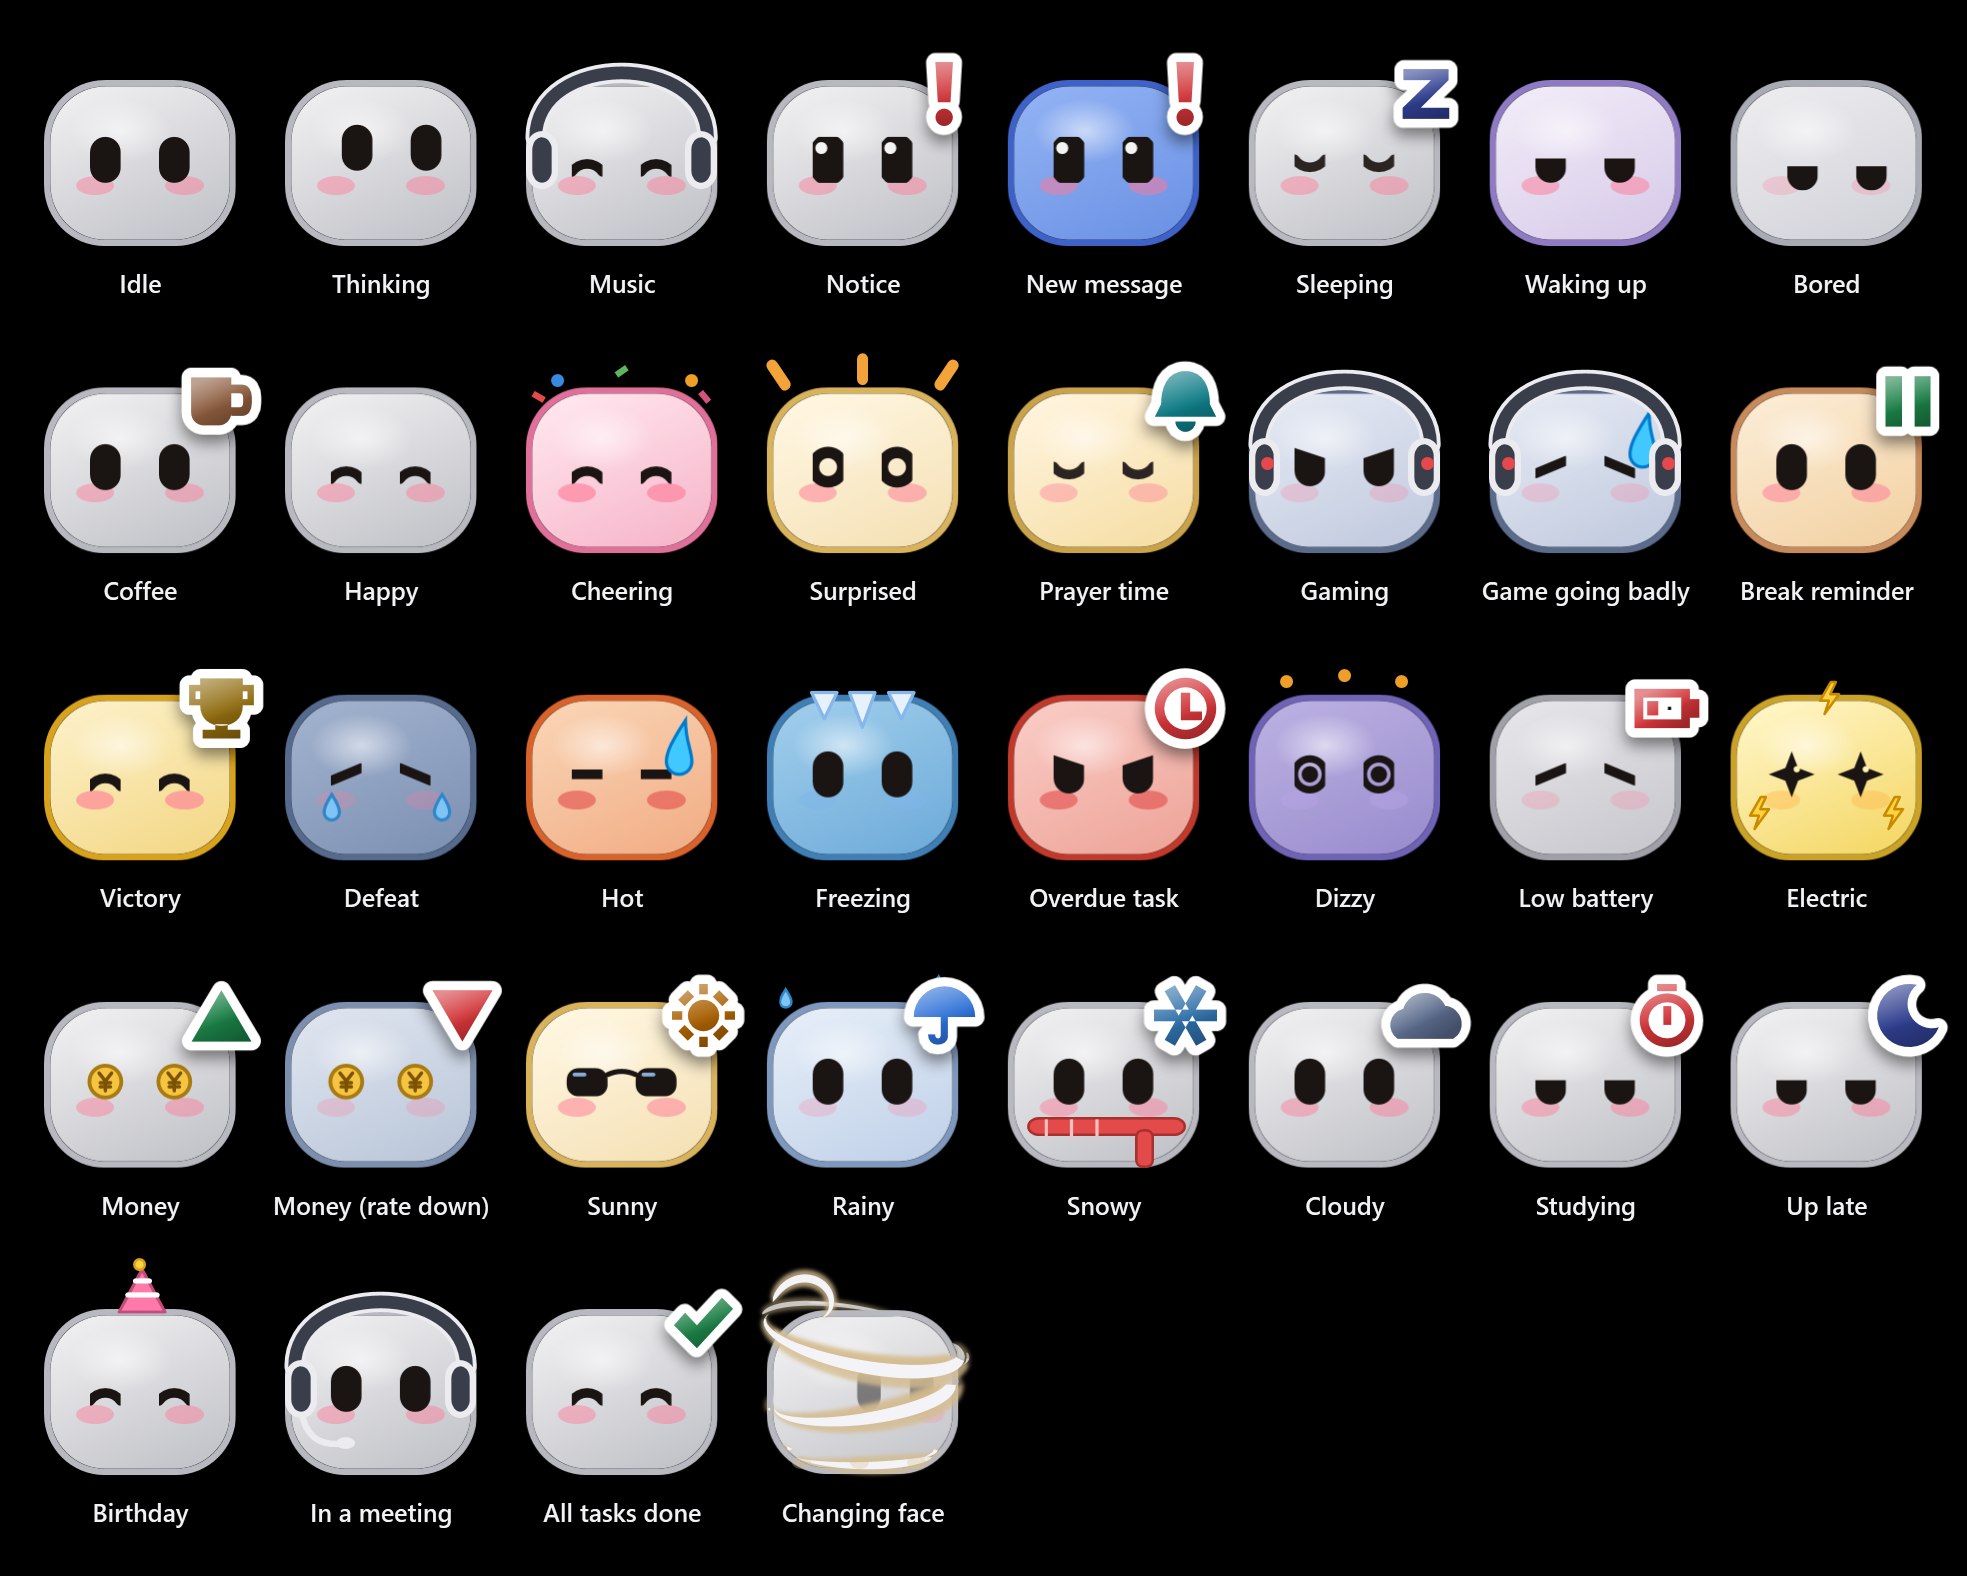
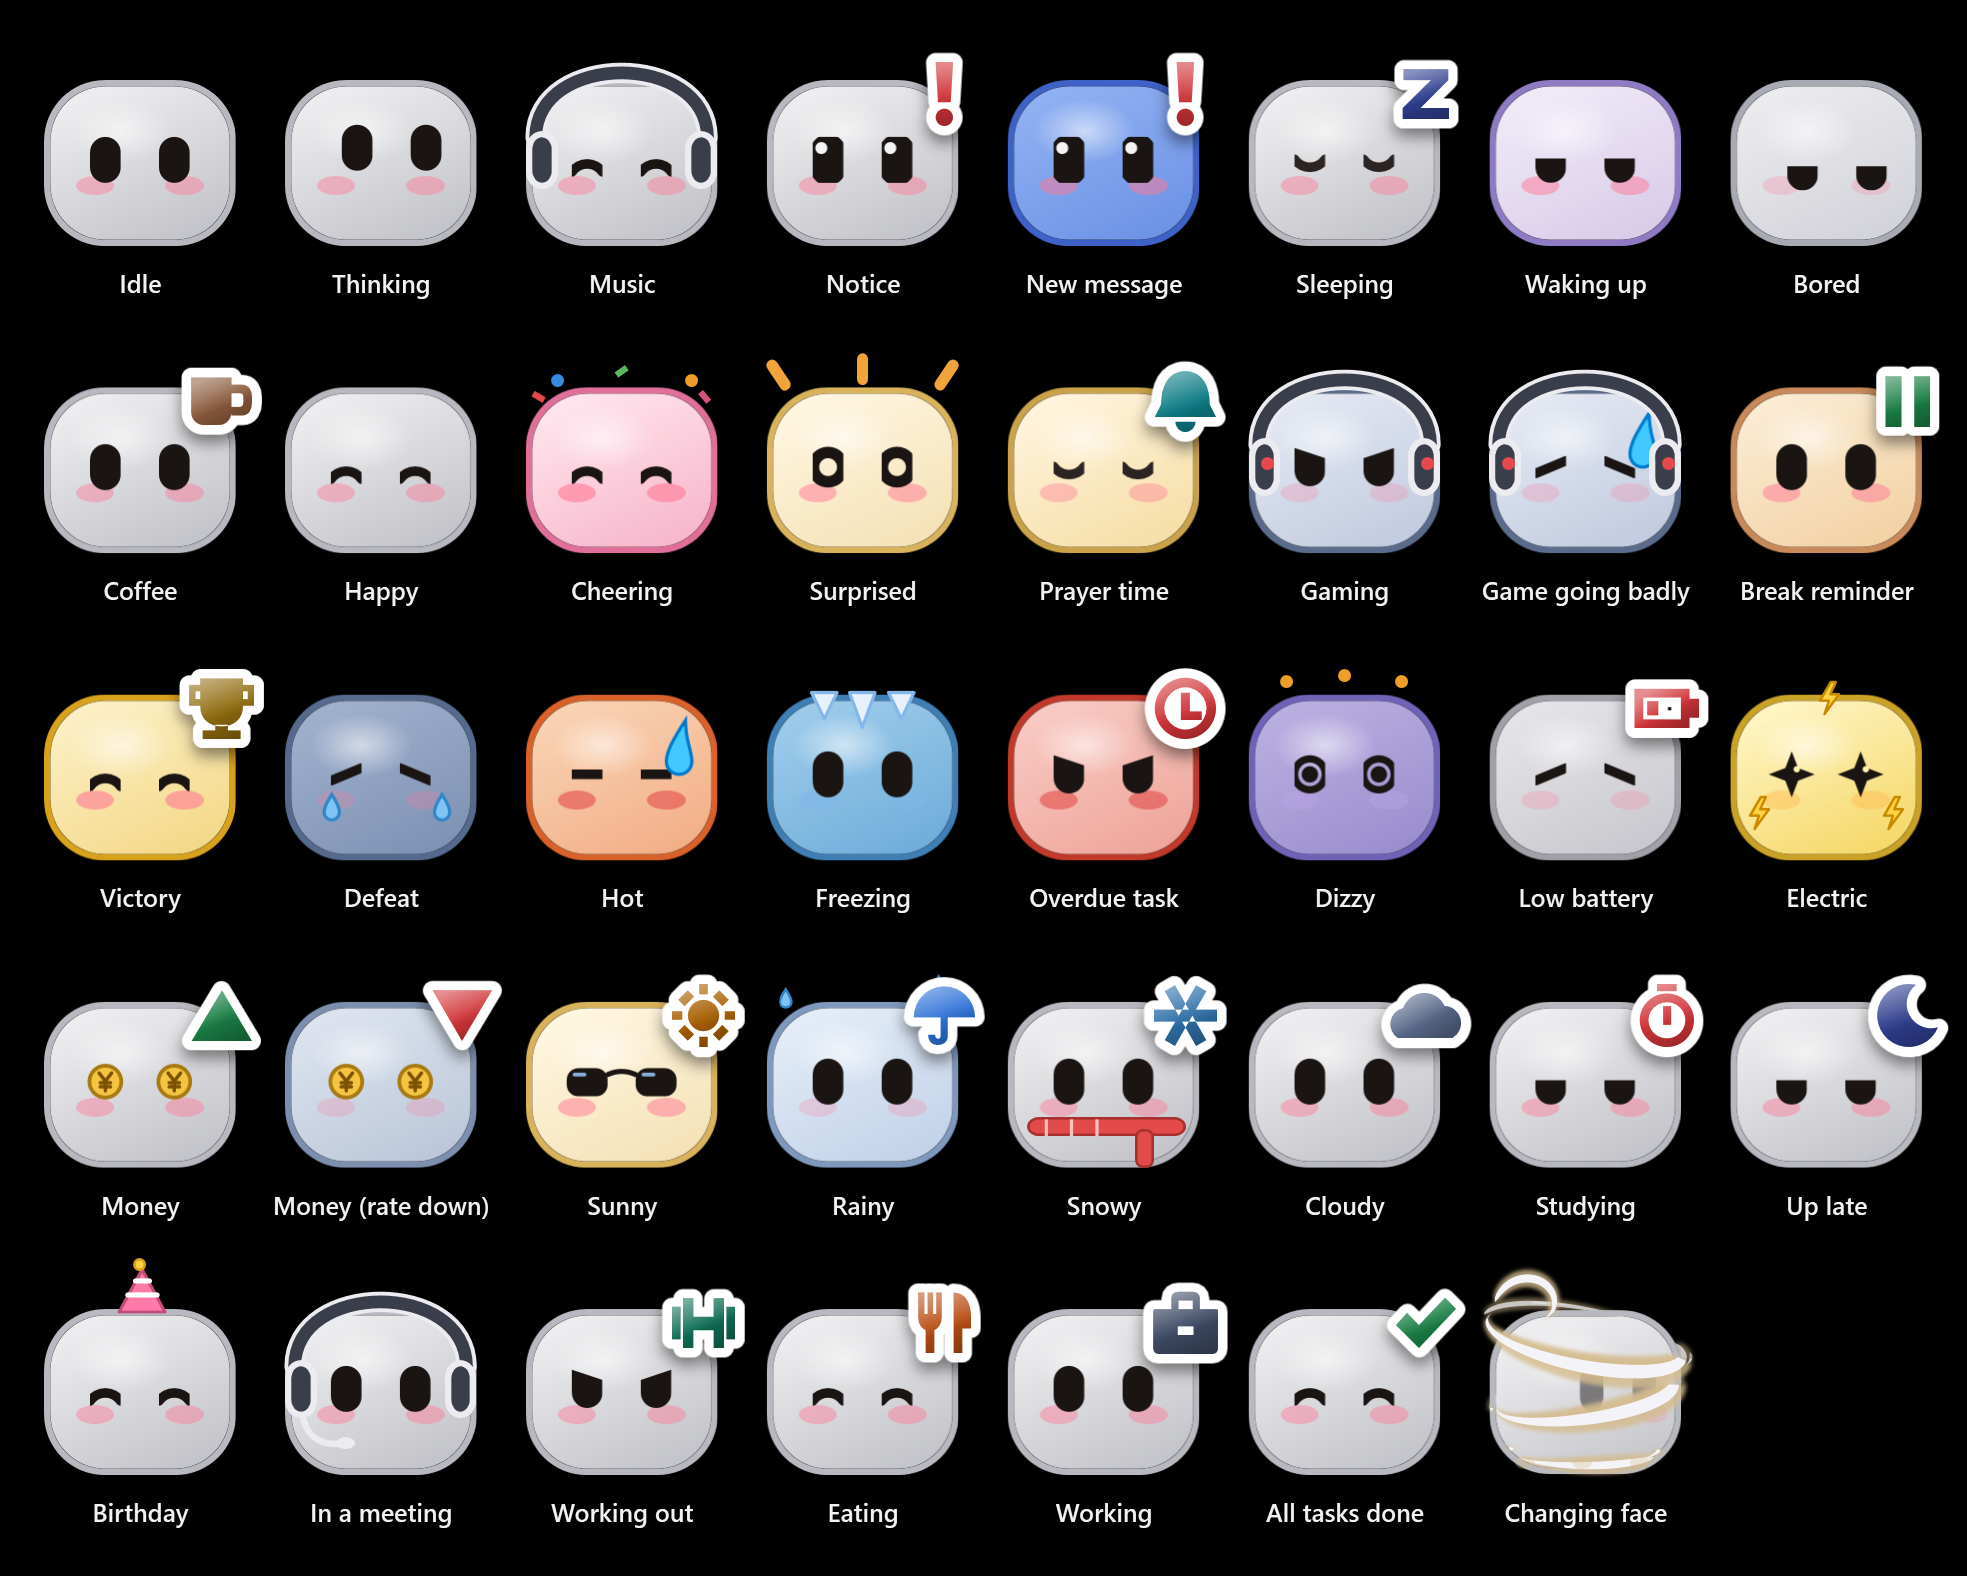
docs: regenerate 38-mood mascot sheets and update README for v0.5.5-beta

Changed region(s): [[0.2791, 0.8084, 0.8683, 0.9638], [0.2791, 0.9327, 0.3411, 0.9638]]

diff --git a/README.md b/README.md
@@ -141,15 +141,15 @@ Switch between `Default` (dark), `Hojicha` (warm roasted-tea brown), `Kuro Night
 [What triggers each mascot expression](docs/USER_GUIDE.md#mochis-faces)
 
 <details>
-<summary><strong>View all 35 mascot expressions (Default, Matcha, Kuro &amp; Shiro)</strong></summary>
+<summary><strong>View all 38 mascot expressions (Default, Matcha, Kuro &amp; Shiro)</strong></summary>
 
-![Mochi's 35 moods on the Default dark theme](docs/images/mochi-moods-default.png)
+![Mochi's 38 moods on the Default dark theme](docs/images/mochi-moods-default.png)
 
-![Mochi's 35 moods on the Matcha theme](docs/images/mochi-moods-matcha.png)
+![Mochi's 38 moods on the Matcha theme](docs/images/mochi-moods-matcha.png)
 
-![Kuro's 35 moods on the Kuro Night theme](docs/images/mochi-moods-kuro.png)
+![Kuro's 38 moods on the Kuro Night theme](docs/images/mochi-moods-kuro.png)
 
-![Shiro's 35 moods on the Default dark theme](docs/images/mochi-moods-shiro.png)
+![Shiro's 38 moods on the Default dark theme](docs/images/mochi-moods-shiro.png)
 
 </details>
 
@@ -200,7 +200,7 @@ A new install starts focused: **Media**, **Stats**, and **Weather** tabs, plus d
 | **WhatsApp** | Multi-account messages, aliases, quick replies, reactions, and read-sync via local or shared GOWA engine (starts nothing until enabled). | Off | WhatsApp |
 | **Email** | IMAP accounts (Gmail, Yahoo, iCloud with app password), Outlook Classic, Mailspring; verification code copy. | Ready, add an account | Email |
 | **Prayer times** | Location-aware Aladhan schedule, schematic timeline, qibla bearing, offline moon phase, Tone/Silent chime. | Off | Tabs & Modules, or Location & Prayer |
-| **Today & calendar** | Month calendar, up to 10 named, colour-coded Google Calendar / `.ics` links (Work, Personal & more; [setup guide](docs/USER_GUIDE.md#connecting-google-calendar)), tasks with reminders, optional Japan/Indonesia holidays. | Off | Tabs & Modules; links & holidays in Calendar |
+| **Today & calendar** | Month calendar, up to 10 named, colour-coded Google Calendar / `.ics` links (Work, Personal & more; [setup guide](docs/USER_GUIDE.md#connecting-google-calendar)), automatic & right-click mascot schedule badges (`Meeting`, `Eating`, `Gym`, `Working` with 45 min Coffee breaks), tasks with reminders, optional Japan/Indonesia holidays. | Off | Tabs & Modules; links & holidays in Calendar |
 | **FX rates** | Three currency pairs from 25 currencies (defaults USD/JPY, USD/IDR, JPY/IDR) with trajectory chart, no API key required. | Off | Tabs & Modules |
 | **AI usage** | Remaining quota tracking for Claude, Codex, Antigravity, Cursor, Gemini, and GitHub Copilot, with optional low-usage alert. | Off | Tabs & Modules; providers in AI Usage |
 | **Taskbar readouts** | Custom Left/Right blocks beside the tray (CPU, GPU, memory, disk, network, prayer, weather, batteries) with themed hover cards & block menus. | Off | Taskbar |

diff --git a/docs/README.md b/docs/README.md
@@ -83,7 +83,7 @@ Captures and reports are written under `MochiDock/obj/`. Capturing the README sc
 | Apps card (other apps' toasts) | Not runtime-verified | Filter unit-tested and card rendered; shares the Discord listener, so the same access caveat applies |
 | Rain soon notice | Not runtime-verified | Policy unit-tested; the Open-Meteo 15-minute fields were checked against the live API |
 | Stats 24-hour history and sustained-heat alert | Not runtime-verified | History, chart series and heat policy unit-tested; the 24 h chart is rendered by `verify-card-design.ps1` with synthetic lines; the light sampler's cost is unmeasured |
-| Mochi day faces (meeting, birthday, all tasks done, up late) and hover glance | Not runtime-verified | Rules unit-tested; faces rendered by `verify-mascot.ps1` |
+| Mochi day faces (meeting, birthday, eating, workout, working, all tasks done, up late) and hover glance | Not runtime-verified | Rules unit-tested; faces rendered by `verify-mascot.ps1` |
 | Stats (CPU, GPU, memory, drives, network, processes) | Partial | CPU temperature is an estimate (real value needs PawnIO); some fallbacks remain |
 | Battery page and wireless device batteries | Not runtime-verified | One mouse verified on hardware; LAMZU small dongle (Areson 25A7:FA7C) read by a probe, not in the running app; Logitech HID++ untested |
 | Gaming readout, profiles, summaries, ping | Not runtime-verified | Needs admin for ETW FPS; PUBG API and League local API untested in real games |
@@ -91,7 +91,7 @@ Captures and reports are written under `MochiDock/obj/`. Capturing the README sc
 | Window-size shortcuts (Ctrl+Alt+1-4, flip Ctrl+Alt+F) | Not runtime-verified | Core rules unit-tested; Settings rows not rendered by a harness |
 | Prayer (Aladhan, timeline, reminders, Tone/Silent) | Implemented | Audio and lock/resume checks are manual |
 | Weather | Implemented | Open-Meteo |
-| Today, calendar (iCal), tasks, reminders | Not runtime-verified | Secret link is DPAPI-protected; Google feed lag is a known limit |
+| Today, calendar (iCal), tasks, reminders | Not runtime-verified | Secret links are DPAPI-protected; Google feed lag is a known limit |
 | FX rates | Implemented | Yahoo with keyless fallbacks; indicative prices only |
 | AI usage | Implemented | Parsers unit-tested; sign-in states need a human check |
 | Pomodoro, Clipboard, Script, Downloads | Implemented | Downloads need yt-dlp and ffmpeg |
